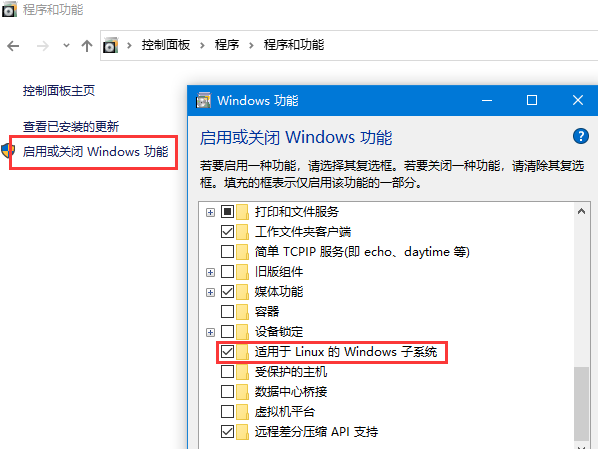
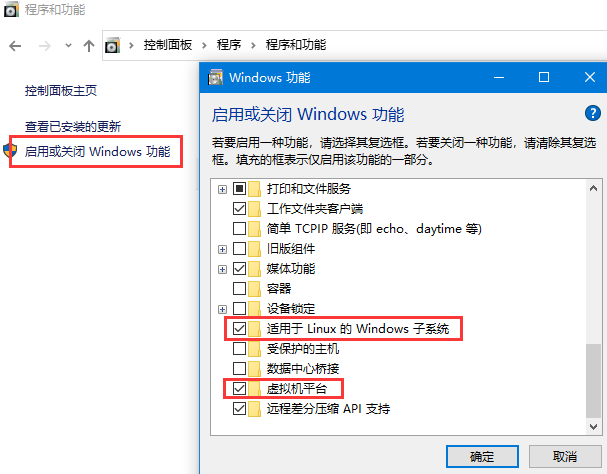
wsl

diff --git a/docs/misc/win10开发环境搭建.md b/docs/misc/win10开发环境搭建.md
@@ -21,17 +21,25 @@
 
 ## 启用 Win10 的子系统功能
 
-启用 win10 的开发者模式
+!> 可以通过在 PowerShell 执行`wsl --install`命令进行 WSL 的初始化安装，默认会安装 Ubuntu 作为 Linux 子系统，此时会自动更新到 WSL2
+
+**下面讲讲手动设置 WSL2 的方式**
+
+1. 启用 win10 的开发者模式
 
 ![](./assets/wsl_setup_1.png)
 
-打开控制面板的`Windows功能`并勾选`适用于Linux的Windows子系统`，点确定后会要求重启电脑
+2. 打开控制面板的`Windows功能`并勾选`适用于Linux的Windows子系统`和`虚拟机平台`，点确定后会要求重启电脑
 
 ![](./assets/wsl_setup_2.png)
 
-重启好电脑后在 Win10 应用商店搜索`Ubuntu`，然后安装它
+3. 重启好电脑后在 Win10 应用商店搜索`Ubuntu`，然后安装它
 
 ![](./assets/wsl_setup_3.png)
+
+4. 下载[WSL2 Linux](https://wslstorestorage.blob.core.windows.net/wslblob/wsl_update_x64.msi)内核更新包并安装
+5. 在 PowerShell 执行`wsl --set-version Ubuntu 2`命令将子系统更新到 WSL2
+6. 将 WSL2 设置为默认版本`wsl --set-default-version 2`
 
 安装完成后根据提示设置系统用户名和密码
 
@@ -70,6 +78,28 @@ sudo ln -s /www/wwwroot/test /mnt/d/Workspace/test
 ```
 
 ?> 上面的`/mnt`可以理解成是`windows`系统，然后`/d`表示 D 盘，后面的文件夹就很好理解了，不再展开说明
+
+**设置宝塔面板跟随 Windows 开机自启**
+
+1. 在 Ubuntu 中创建一个脚本`sudo vim /etc/init.wsl`，内容如下
+
+```sh
+#! /bin/bash
+bt start
+/etc/init.d/nginx start
+
+#注: 因为wsl2中的Ubuntu不能自启软件,所以才这么搞; 然后你发现宝塔自启后, nginx等服务还是不会自启, 可以把相应服务的启动指令同样放在这里来解决
+```
+
+2. 给该脚本添加执行权限`sudo chmod +x /etc/init.wsl`
+3. 在 Windows 中创建一个 vbs 脚本文件并命名为`ubuntu_start.vbs`，内容如下
+
+```vb
+Set ws = WScript.CreateObject("WScript.Shell")
+ws.run "wsl -u root /etc/init.wsl", vbhide
+```
+
+4. 按`Win+R`键打开运行，输入`shell:startup`，把`ubuntu_start.vbs`拖到启动文件夹里，这样每次 Windows 启动时就会自动执行`init.wsl`脚本了
 
 ---
 

diff --git a/docs/misc/VSCODE.md b/docs/misc/VSCODE.md
@@ -128,6 +128,7 @@
 - [Remote Explorer](https://marketplace.visualstudio.com/items?itemName=ms-vscode.remote-explorer) 远程资源管理器
   - [Remote - SSH](https://marketplace.visualstudio.com/items?itemName=ms-vscode-remote.remote-ssh) 在 VSCode 中使用 SSH 连接服务器
   - [Remote - SSH: Editing Configuration Files](https://marketplace.visualstudio.com/items?itemName=ms-vscode-remote.remote-ssh-edit) 在 VSCode 中通过 SSH 连接远端服务器作为开发环境
+- [WSL](https://marketplace.visualstudio.com/items?itemName=ms-vscode-remote.remote-wsl) VSCode 的微软官方 WSL 插件
 
 ## 我的 VSCode 用户配置
 
